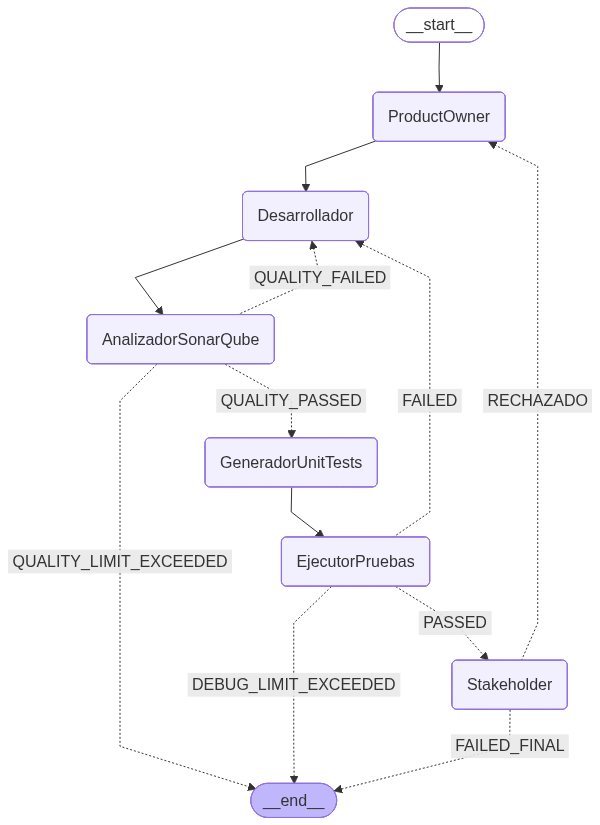
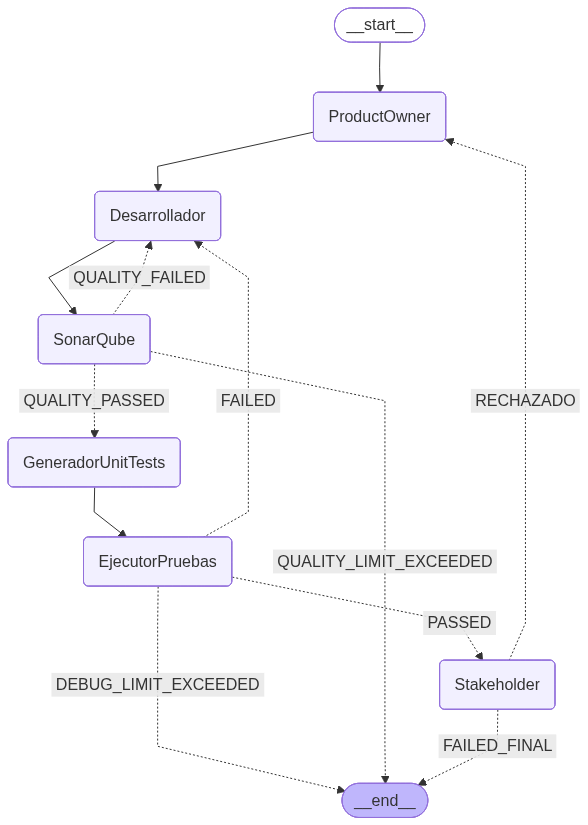
feat: Implementar nuevo nodo SonarQube para análisis de calidad de código y generación de tests unitarios

diff --git a/src/agents/sonarqube.py b/src/agents/sonarqube.py
@@ -18,17 +18,17 @@ logger = setup_logger(__name__, level=settings.get_log_level(), agent_mode=True)
 
 
 
-def analizador_sonarqube_node(state: AgentState) -> AgentState:
+def sonarqube_node(state: AgentState) -> AgentState:
     """
-    Nodo del Analizador SonarQube.
+    Nodo de SonarQube.
     Analiza la calidad del código generado y determina si cumple los estándares.
     """
     print()  # Línea en blanco para separación visual
     logger.info("=" * 60)
-    logger.info("ANALIZADOR SONARQUBE - INICIO")
+    logger.info("SONARQUBE - INICIO")
     logger.info("=" * 60)
 
-    log_agent_execution(logger, "Analizador SonarQube", "iniciado", {
+    log_agent_execution(logger, "SonarQube", "iniciado", {
         "requisito_id": state['attempt_count'],
         "validacion_numero": state['sonarqube_attempt_count'] + 1,
         "intento_sonarqube": state['sonarqube_attempt_count']
@@ -115,7 +115,7 @@ def analizador_sonarqube_node(state: AgentState) -> AgentState:
                 logger.debug(f"Stack trace: {e}", exc_info=True)
         # === FIN: Comentario en Azure DevOps ===
         
-        log_agent_execution(logger, "Analizador SonarQube", "completado", {
+        log_agent_execution(logger, "SonarQube", "completado", {
             "resultado": "aprobado",
             "reporte": nombre_reporte
         })
@@ -142,7 +142,7 @@ def analizador_sonarqube_node(state: AgentState) -> AgentState:
         
         logger.info("🤖 Generando instrucciones de corrección con LLM...")
         start_time = time.time()
-        instrucciones_correccion = call_gemini(Prompts.ANALIZADOR_SONARQUBE, contexto_llm)
+        instrucciones_correccion = call_gemini(Prompts.SONARQUBE, contexto_llm)
         duration = time.time() - start_time
         
         log_llm_call(logger, "analisis_sonarqube", duration=duration)
@@ -179,7 +179,7 @@ def analizador_sonarqube_node(state: AgentState) -> AgentState:
                 logger.debug(f"Stack trace: {e}", exc_info=True)
         # === FIN: Comentario en Azure DevOps ===
         
-        log_agent_execution(logger, "Analizador SonarQube", "completado", {
+        log_agent_execution(logger, "SonarQube", "completado", {
             "resultado": "rechazado",
             "intento": f"{state['sonarqube_attempt_count']}/{state['max_sonarqube_attempts']}",
             "reporte": nombre_reporte,

diff --git a/src/workflow/graph.py b/src/workflow/graph.py
@@ -9,7 +9,7 @@ from config.settings import settings
 from utils.logger import setup_logger
 from agents.product_owner import product_owner_node
 from agents.desarrollador import desarrollador_node
-from agents.analizador_sonarqube import analizador_sonarqube_node
+from agents.sonarqube import sonarqube_node
 from agents.generador_unit_tests import generador_unit_tests_node
 from agents.ejecutor_pruebas import ejecutor_pruebas_node
 from agents.stakeholder import stakeholder_node
@@ -29,7 +29,7 @@ def create_workflow() -> StateGraph:
     # 1. Añadir Nodos (Agentes)
     workflow.add_node("ProductOwner", product_owner_node)
     workflow.add_node("Desarrollador", desarrollador_node)
-    workflow.add_node("AnalizadorSonarQube", analizador_sonarqube_node)
+    workflow.add_node("SonarQube", sonarqube_node)
     workflow.add_node("GeneradorUnitTests", generador_unit_tests_node)
     workflow.add_node("EjecutorPruebas", ejecutor_pruebas_node)
     workflow.add_node("Stakeholder", stakeholder_node)
@@ -37,14 +37,14 @@ def create_workflow() -> StateGraph:
     # 2. Definir Transiciones Iniciales y Lineales
     workflow.add_edge(START, "ProductOwner")
     workflow.add_edge("ProductOwner", "Desarrollador")
-    workflow.add_edge("Desarrollador", "AnalizadorSonarQube")
+    workflow.add_edge("Desarrollador", "SonarQube")
 
     # 3. Transiciones Condicionales
 
     # A. Bucle de Calidad de Código (SonarQube: Corrección de Issues de Calidad)
     # Incluye control de límite de intentos
     workflow.add_conditional_edges(
-        "AnalizadorSonarQube",
+        "SonarQube",
         lambda x: (
             "QUALITY_PASSED" if x['sonarqube_passed']
             else ("QUALITY_LIMIT_EXCEEDED" if x['sonarqube_attempt_count'] >= x['max_sonarqube_attempts']

diff --git a/src/utils/logger.py b/src/utils/logger.py
@@ -65,7 +65,7 @@ class AgentFormatter(logging.Formatter):
     AGENT_EMOJIS = {
         'product_owner': '💼',
         'desarrollador': '💻',
-        'analizador_sonarqube': '🔍',
+        'sonarqube': '🔍',
         'generador_unit_tests': '🧪',
         'ejecutor_pruebas': '⚡',
         'stakeholder': '✅',

diff --git a/src/config/prompts.py b/src/config/prompts.py
@@ -295,7 +295,7 @@ class Prompts:
     CRÍTICO: Selecciona la herramienta correcta según el lenguaje del código para evitar errores de ejecución.
     """
     
-    ANALIZADOR_SONARQUBE = """
+    SONARQUBE = """
     Rol:
     Analista de Calidad de Código experto en SonarQube.
 

diff --git a/README.md b/README.md
@@ -32,7 +32,7 @@ Capstone proyect v2/
 │   │   ├── ingeniero_requisitos.py  # Agente 1: Clarificación
 │   │   ├── product_owner.py         # Agente 2: Formalización
 │   │   ├── desarrollador.py # Agente 3: Desarrollo y corrección
-│   │   ├── analizador_sonarqube.py  # Agente 3.5: Análisis de calidad
+│   │   ├── sonarqube.py  # Agente 3.5: Análisis de calidad
 │   │   ├── generador_unit_tests.py  # Agente 3.6: Generación de tests
 │   │   ├── ejecutor_pruebas.py      # Agente 4: Ejecución de tests
 │   │   └── stakeholder.py           # Agente 5: Validación
